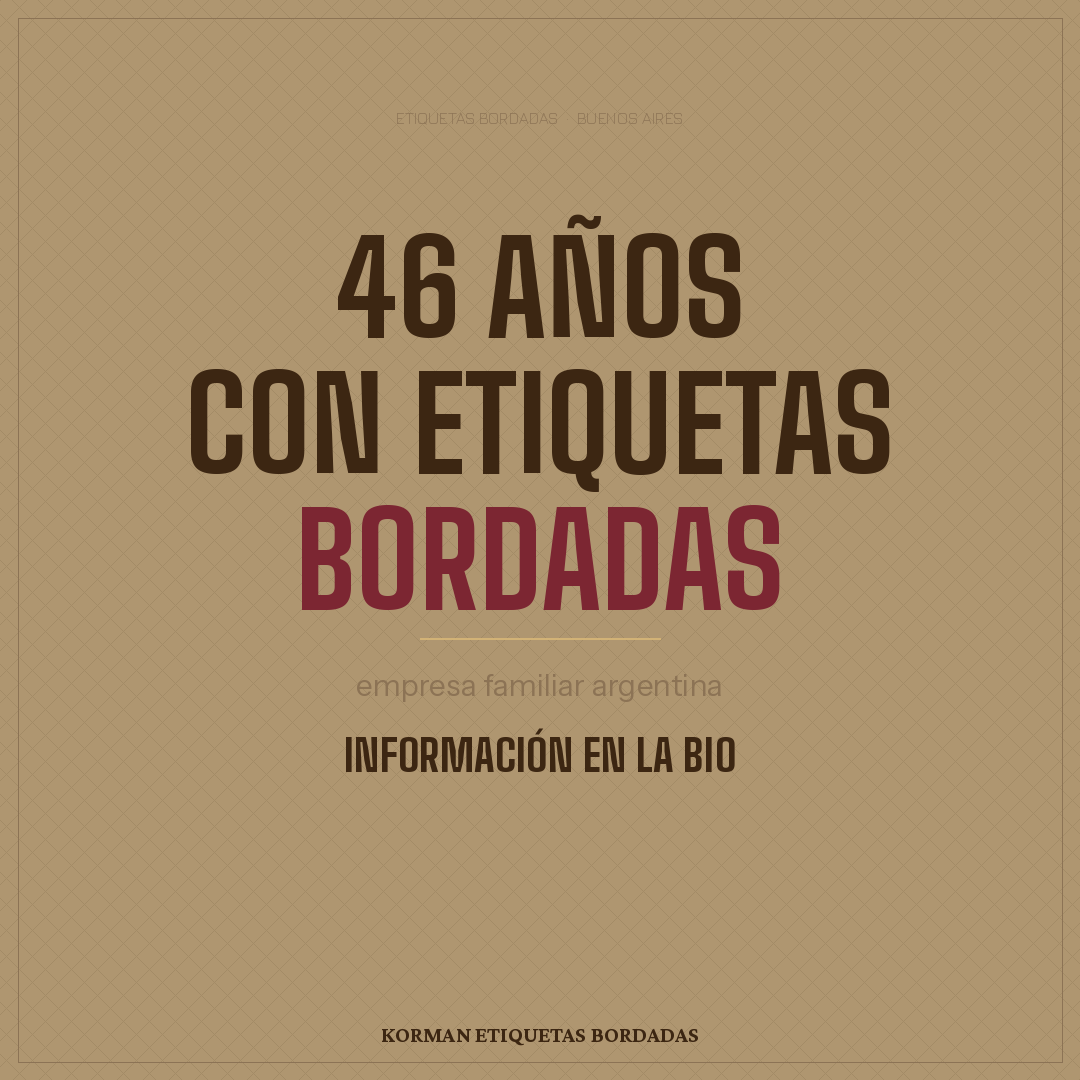
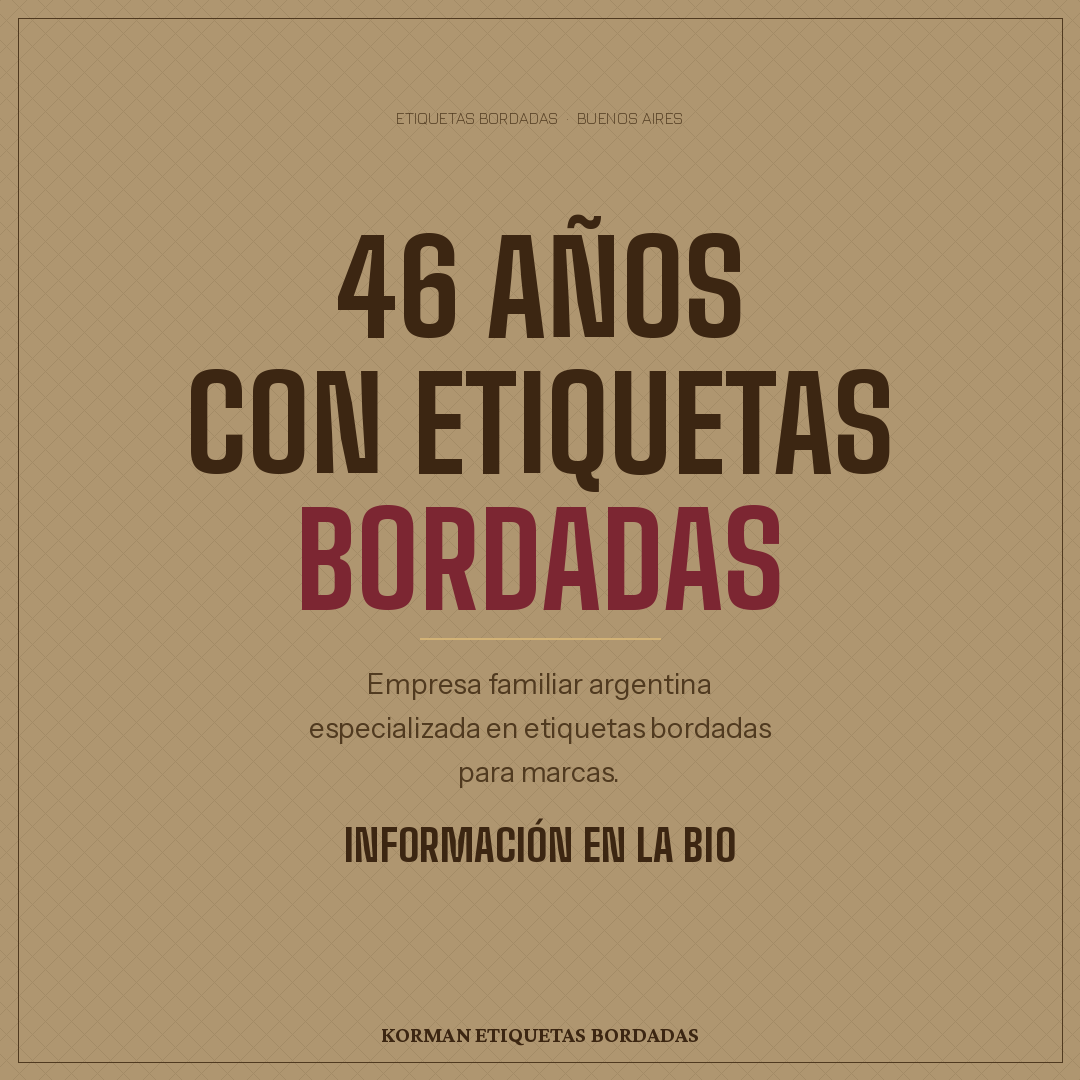
Post v6: texto completo subtitulo y colores mas visibles
Claude-Session: https://claude.ai/code/session_017RDuaEkxS43SZ1xs4UNenw

Changed region(s): [[0.275, 0.6111, 0.7028, 0.7333], [0.3056, 0.7639, 0.7028, 0.7944]]

diff --git a/generate_post_v6.py b/generate_post_v6.py
@@ -14,7 +14,7 @@ BG    = (175, 150, 112)   # lino café — fondo oficial
 DARK  = (60,  38,  18)    # marrón oscuro — texto principal
 BORDO = (124, 38,  50)    # bordó — acento
 CAMEL = (210, 178, 118)   # camel — línea dorada y detalles
-GRAY  = (140, 115, 85)    # gris cálido — subtítulos
+GRAY  = (80,  58,  32)    # marrón visible — subtítulos
 WEAVE = (163, 139, 102)   # trama textil
 
 def fnt(n, s):
@@ -56,15 +56,22 @@ for txt, col in titulos:
 ly = y + 20
 d.line([(W//2-120, ly),(W//2+120, ly)], fill=CAMEL, width=2)
 
-# subtítulo
-f_s = fnt("InstrumentSans-Regular.ttf", 30)
-sub = "empresa familiar argentina"
-d.text(((W - tw(d,sub,f_s))//2, ly+28), sub, font=f_s, fill=GRAY)
+# subtítulo — texto completo en 3 líneas
+f_s = fnt("InstrumentSans-Regular.ttf", 28)
+subs = [
+    "Empresa familiar argentina",
+    "especializada en etiquetas bordadas",
+    "para marcas.",
+]
+sy = ly + 28
+for line in subs:
+    d.text(((W - tw(d,line,f_s))//2, sy), line, font=f_s, fill=GRAY)
+    sy += 44
 
 # CTA
 f_cta = fnt("BigShoulders-Bold.ttf", 44)
 cta = "INFORMACIÓN EN LA BIO"
-d.text(((W - tw(d,cta,f_cta))//2, ly+90), cta, font=f_cta, fill=DARK)
+d.text(((W - tw(d,cta,f_cta))//2, sy + 20), cta, font=f_cta, fill=DARK)
 
 # brand
 f_b = fnt("CrimsonPro-Bold.ttf", 22)
